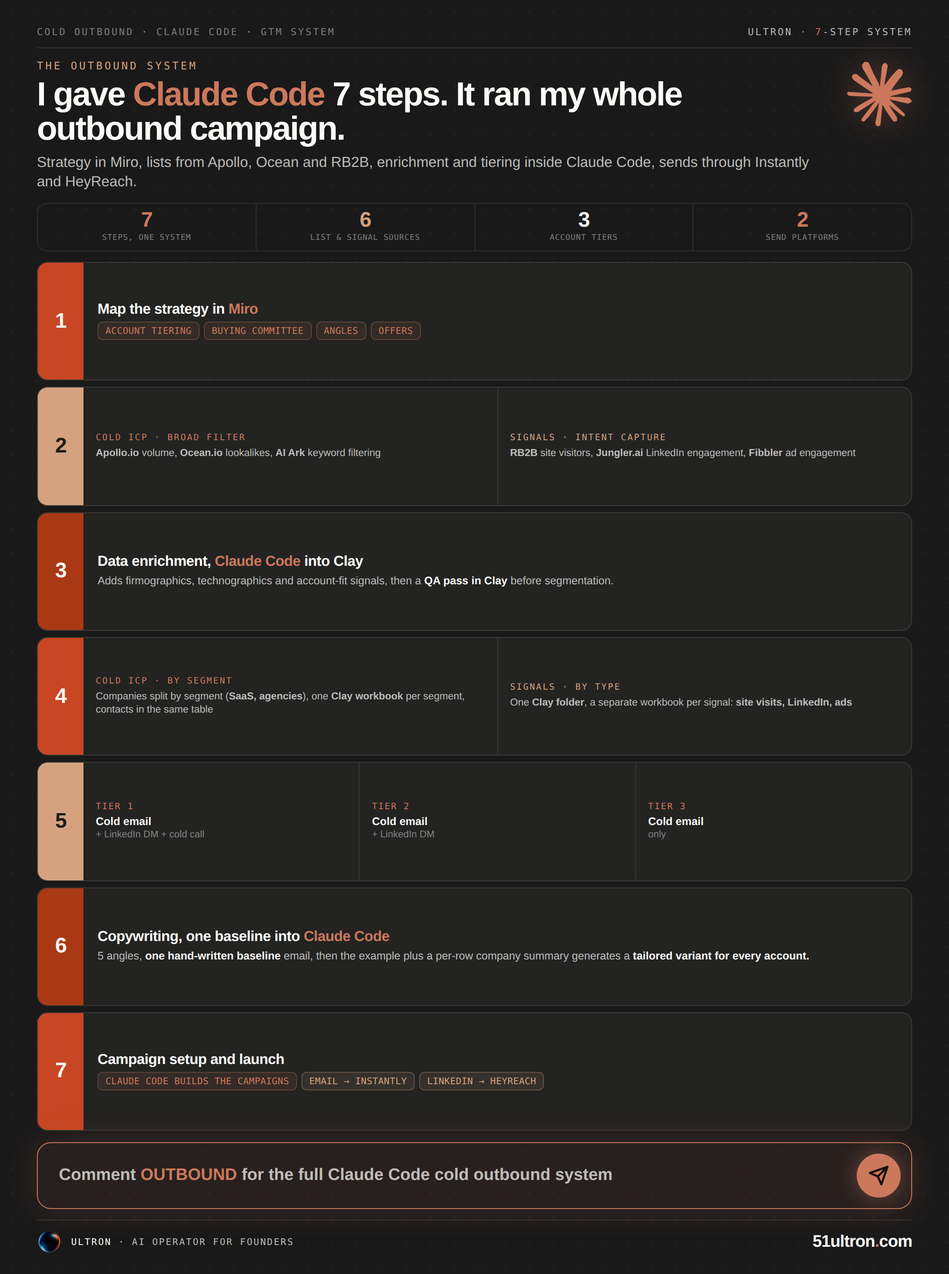
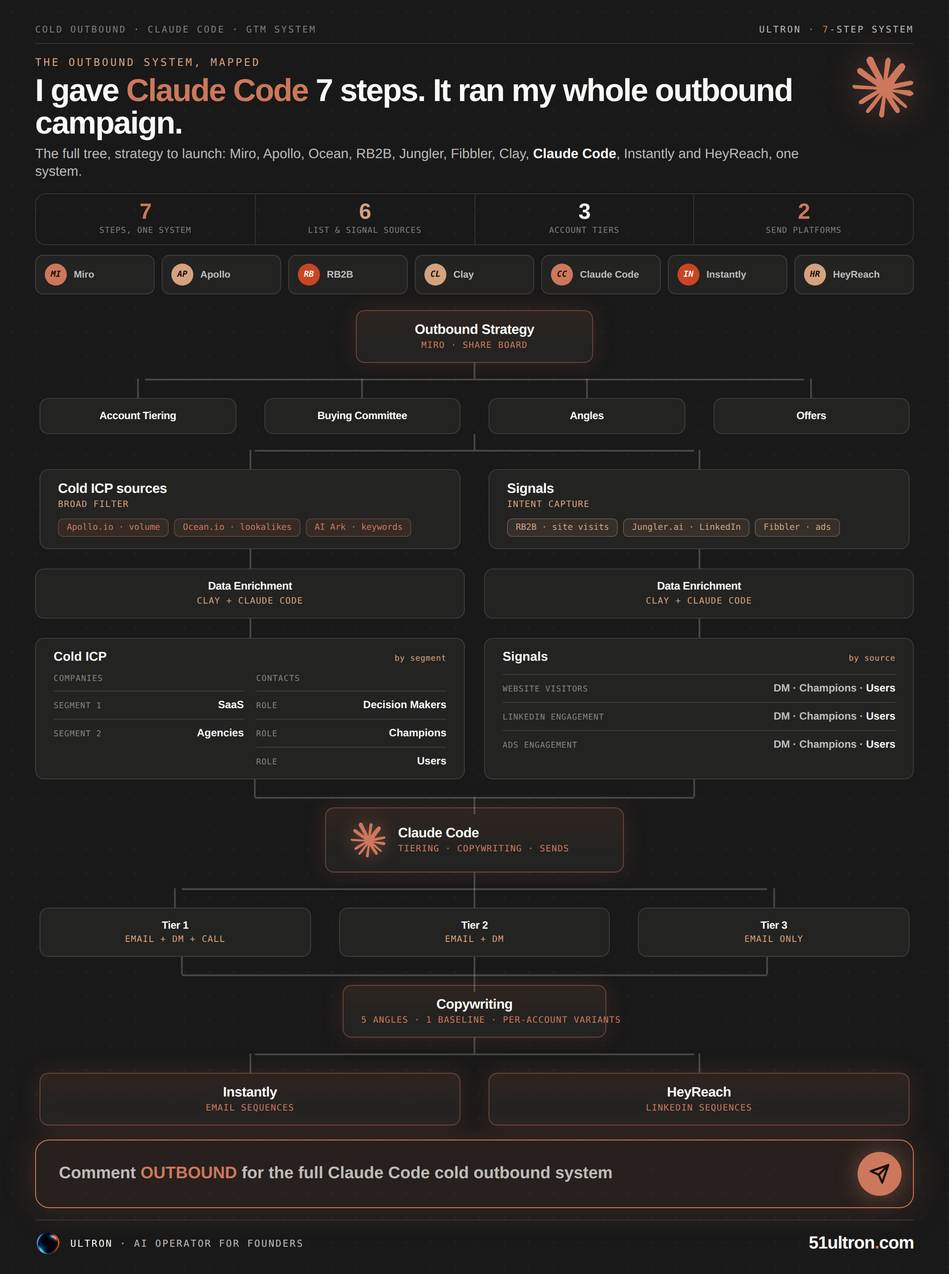
content: rebuild cold outbound infographic as an actual flowchart
Operator feedback: didn't like the numbered-card design, wanted the graphic
element rebuilt from the reference workflow diagram (adjusted to fit).
Replaced the stacked-stage pipeline with a real org-chart tree: pure-CSS
connector lines (branch bars + stub lines) route Outbound Strategy (Miro) ->
4 planning nodes -> splits into Cold ICP sources / Signals tracks -> parallel
enrichment -> dense segmentation panels -> converges into a Claude Code hub
-> tiers -> copywriting -> splits into Instantly / HeyReach launch nodes.
Re-scaled spacing/fonts and added back a stat strip + tool-badge row to fill
the canvas (first pass left a large dead band at the bottom). Dark Ultron,
1080x1450, preflight clean (exact height, no forbidden fonts/colors/dashes,
77px max dead band). ALT text updated to describe the tree instead of the
old pipeline layout.

diff --git a/content/coldoutbound-linkedin.html b/content/coldoutbound-linkedin.html
@@ -5,74 +5,96 @@
 <title>coldoutbound - LinkedIn 1080x1450</title>
 <style>
 @import 'https://fonts.googleapis.com/css2?family=DM+Sans:opsz,wght@9..40,400;9..40,500;9..40,600;9..40,700;9..40,800;9..40,900&family=DM+Mono:wght@400;500&display=swap';
-/* coldoutbound - The 7-step Claude Code cold outbound system (Miro -> Apollo/Ocean/AI Ark/RB2B/
-   Jungler/Fibbler -> Clay -> Instantly/HeyReach). Dominant = a 7-stage numbered pipeline, each
-   stage its own treatment (chip row / two-column split / tier badges) so no two rows read alike.
-   BUDGET: 1450 = pad(30+22) + mast(38) + hero(150) + stats(78) + pipe(1030, 7x~132+gaps) + cta(78)
-   + footer(44), gaps absorbed in margins. Dark Ultron. */
-:root{--slate:#191919;--slate2:#232322;--slate3:#1c1c1b;--ivory:#FAFAF7;
+/* coldoutbound v2 - rebuilt as an actual flowchart (operator: reference workflow diagram),
+   Dark Ultron. Vertical org-chart tree: Miro strategy -> 4 planning nodes -> splits into
+   Cold ICP / Signals sourcing -> enrichment -> dense segmentation panels -> converges into a
+   Claude Code hub -> tiering -> copywriting -> splits into Instantly / HeyReach launch.
+   Connector lines are pure CSS (::before bars + stub lines), no images. */
+:root{--slate:#191919;--slate2:#232322;--slate3:#1e1e1d;--ivory:#FAFAF7;
 --ink70:rgba(250,250,247,.72);--ink46:rgba(250,250,247,.46);--ink30:rgba(250,250,247,.30);
---ink14:rgba(250,250,247,.14);--rule:rgba(250,250,247,.10);
+--ink14:rgba(250,250,247,.14);--rule:rgba(250,250,247,.12);--line:rgba(250,250,247,.20);
 --book:#CC785C;--book-d:#C84623;--kraft:#D4A27F;--deep:#A93914;--cloud:#919180;}
 *{box-sizing:border-box;margin:0;padding:0;}
 body{background:#0d0d0d;display:flex;justify-content:center;padding:24px 0;font-family:'DM Sans',sans-serif;-webkit-font-smoothing:antialiased;}
-.frame{width:1080px;height:1450px;background:var(--slate);padding:30px 42px 22px;position:relative;overflow:hidden;color:var(--ivory);display:flex;flex-direction:column;}
-.frame::before{content:'';position:absolute;inset:0;pointer-events:none;z-index:0;background-image:radial-gradient(rgba(204,120,92,.055) 1.3px,transparent 1.4px);background-size:28px 28px;}
-.atm{position:absolute;inset:0;pointer-events:none;z-index:1;background:radial-gradient(ellipse 56% 20% at 92% -2%,rgba(204,120,92,.18) 0%,transparent 60%),radial-gradient(ellipse 44% 26% at 4% 100%,rgba(212,162,127,.09) 0%,transparent 60%);}
+.frame{width:1080px;height:1450px;background:var(--slate);padding:28px 40px 20px;position:relative;overflow:hidden;color:var(--ivory);display:flex;flex-direction:column;}
+.frame::before{content:'';position:absolute;inset:0;pointer-events:none;z-index:0;background-image:radial-gradient(rgba(204,120,92,.05) 1.3px,transparent 1.4px);background-size:28px 28px;}
+.atm{position:absolute;inset:0;pointer-events:none;z-index:1;background:radial-gradient(ellipse 56% 18% at 92% -2%,rgba(204,120,92,.16) 0%,transparent 60%),radial-gradient(ellipse 44% 22% at 4% 100%,rgba(212,162,127,.08) 0%,transparent 60%);}
 .frame>*{position:relative;z-index:2;}
-.mast{flex-shrink:0;display:flex;align-items:center;justify-content:space-between;padding-bottom:11px;border-bottom:1px solid var(--rule);font-family:'DM Mono',monospace;font-size:11px;font-weight:500;letter-spacing:.17em;text-transform:uppercase;}
+.mast{flex-shrink:0;display:flex;align-items:center;justify-content:space-between;padding-bottom:9px;border-bottom:1px solid var(--rule);font-family:'DM Mono',monospace;font-size:10.5px;font-weight:500;letter-spacing:.16em;text-transform:uppercase;}
 .mast .ml{color:var(--ink46);}.mast .ml em{color:var(--book);font-style:normal;}
 .mast .mr{color:var(--ink70);}.mast .mr em{color:var(--book);font-style:normal;}
-.hero{flex-shrink:0;margin-top:13px;position:relative;padding-right:96px;}
-.eye{font-family:'DM Mono',monospace;font-size:12px;font-weight:500;letter-spacing:.2em;text-transform:uppercase;color:var(--kraft);}
-.hook{margin-top:7px;font-weight:900;font-size:38px;line-height:1.03;letter-spacing:-1.3px;}
+.hero{flex-shrink:0;margin-top:14px;position:relative;padding-right:92px;}
+.eye{font-family:'DM Mono',monospace;font-size:12px;font-weight:500;letter-spacing:.19em;text-transform:uppercase;color:var(--kraft);}
+.hook{margin-top:6px;font-weight:900;font-size:36px;line-height:1.04;letter-spacing:-1.2px;}
 .hook em{color:var(--book);font-style:normal;}
-.sub{margin-top:8px;font-size:16.5px;font-weight:500;line-height:1.32;color:var(--ink70);max-width:960px;}
+.sub{margin-top:7px;font-size:15.5px;font-weight:500;line-height:1.3;color:var(--ink70);max-width:940px;}
 .sub b{color:var(--ivory);font-weight:700;}
-.hero-claude{position:absolute;top:2px;right:0;width:74px;height:74px;filter:drop-shadow(0 0 20px rgba(204,120,92,.4));}
-.stats{flex-shrink:0;margin-top:12px;display:flex;border:1px solid var(--rule);border-radius:12px;overflow:hidden;}
-.stat{flex:1;padding:9px 10px;text-align:center;}.stat+.stat{border-left:1px solid var(--rule);}
-.stat b{display:block;font-weight:900;font-size:24px;line-height:.85;letter-spacing:-.8px;}
+.hero-claude{position:absolute;top:0;right:0;width:70px;height:70px;filter:drop-shadow(0 0 20px rgba(204,120,92,.4));}
+/* stats */
+.stats{flex-shrink:0;margin-top:14px;display:flex;border:1px solid var(--rule);border-radius:12px;overflow:hidden;}
+.stat{flex:1;padding:10px 10px;text-align:center;}.stat+.stat{border-left:1px solid var(--rule);}
+.stat b{display:block;font-weight:900;font-size:25px;line-height:.85;letter-spacing:-.8px;}
 .stat.a b{color:var(--book);}.stat.b b{color:var(--kraft);}.stat.c b{color:var(--ivory);}.stat.d b{color:var(--book);}
-.stat span{font-family:'DM Mono',monospace;font-size:9px;font-weight:500;letter-spacing:.06em;text-transform:uppercase;color:var(--ink46);margin-top:5px;display:block;}
-/* pipeline (dominant) */
-.pipe{flex:1;min-height:0;margin-top:12px;display:flex;flex-direction:column;gap:7px;}
-.stage{position:relative;flex:1;min-height:0;display:flex;align-items:stretch;gap:0;border:1px solid var(--rule);border-radius:12px;background:var(--slate2);overflow:hidden;}
-.snum{align-self:stretch;width:52px;flex-shrink:0;display:flex;align-items:center;justify-content:center;font-weight:900;font-size:24px;letter-spacing:-.8px;color:var(--ivory);background:var(--book-d);}
-.stage.k .snum{background:var(--kraft);color:#221a12;}.stage.d .snum{background:var(--deep);color:var(--ivory);}
-.sbody{flex:1;min-width:0;display:flex;flex-direction:column;justify-content:center;gap:5px;padding:9px 16px;}
-.st{font-size:16.5px;font-weight:800;color:var(--ivory);letter-spacing:-.3px;line-height:1.05;}
-.st em{color:var(--book);font-style:normal;}
-.sv{font-size:12.5px;font-weight:500;color:var(--ink70);line-height:1.28;}
-.sv b{color:var(--ivory);font-weight:700;}
-/* chip rows */
-.chiprow{display:flex;flex-wrap:wrap;gap:5px;}
-.chip{font-family:'DM Mono',monospace;font-size:10.5px;font-weight:500;letter-spacing:.02em;color:var(--book);background:rgba(204,120,92,.10);border:1px solid rgba(204,120,92,.30);border-radius:6px;padding:3.5px 8px;white-space:nowrap;}
-.chip.k{color:var(--kraft);background:rgba(212,162,127,.10);border-color:rgba(212,162,127,.30);}
-.chip.i{color:var(--ink70);background:rgba(250,250,247,.05);border-color:var(--rule);}
-/* two-column split stages */
-.split2{flex:1;min-width:0;display:flex;gap:0;}
-.spcol{flex:1;min-width:0;padding:9px 14px;display:flex;flex-direction:column;justify-content:center;gap:5px;}
-.spcol+.spcol{border-left:1px solid var(--rule);}
-.spl{font-family:'DM Mono',monospace;font-size:10px;font-weight:500;letter-spacing:.14em;text-transform:uppercase;color:var(--kraft);}
-.spl.b{color:var(--book);}
-.spt{font-size:11.5px;font-weight:500;color:var(--ink70);line-height:1.25;}
-/* tier badges (stage 5) */
-.tiers{flex:1;min-width:0;display:flex;gap:0;}
-.tier{flex:1;padding:9px 14px;display:flex;flex-direction:column;justify-content:center;gap:4px;}
-.tier+.tier{border-left:1px solid var(--rule);}
-.tn{font-family:'DM Mono',monospace;font-size:10px;font-weight:500;letter-spacing:.12em;text-transform:uppercase;color:var(--book);}
-.tt{font-size:12.5px;font-weight:700;color:var(--ivory);line-height:1.2;}
-.tt span{display:block;font-size:11px;font-weight:500;color:var(--ink46);margin-top:1px;}
+.stat span{font-family:'DM Mono',monospace;font-size:9.3px;font-weight:500;letter-spacing:.06em;text-transform:uppercase;color:var(--ink46);margin-top:5px;display:block;}
+/* tool strip */
+.tools{flex-shrink:0;margin-top:11px;display:flex;gap:8px;}
+.tico{flex:1;display:flex;align-items:center;gap:8px;background:var(--slate2);border:1px solid var(--rule);border-radius:9px;padding:9px 10px;}
+.tico i{flex-shrink:0;width:25px;height:25px;border-radius:50%;display:flex;align-items:center;justify-content:center;font-family:'DM Mono',monospace;font-size:9.5px;font-weight:700;color:#1a0f0a;}
+.tico span{font-size:11px;font-weight:600;color:var(--ink70);white-space:nowrap;overflow:hidden;text-overflow:ellipsis;}
+/* ===== flowchart ===== */
+.flow{flex:1;min-height:0;margin-top:18px;display:flex;flex-direction:column;}
+.single{display:flex;justify-content:center;}
+.node{border:1px solid var(--rule);border-radius:10px;background:var(--slate2);padding:13px 20px;text-align:center;}
+.node.hl{border-color:rgba(204,120,92,.4);background:linear-gradient(180deg,rgba(204,120,92,.12),var(--slate2) 70%);box-shadow:0 0 26px rgba(204,120,92,.16);}
+.node.hub{display:flex;align-items:center;gap:14px;padding:16px 28px;}
+.node.hub svg{width:40px;height:40px;flex-shrink:0;filter:drop-shadow(0 0 10px rgba(204,120,92,.5));}
+.node.hub .hubt{text-align:left;}
+.nt{font-size:15.5px;font-weight:800;color:var(--ivory);letter-spacing:-.25px;line-height:1.1;white-space:nowrap;}
+.ns{font-family:'DM Mono',monospace;font-size:10px;font-weight:500;letter-spacing:.07em;text-transform:uppercase;color:var(--kraft);margin-top:4px;white-space:nowrap;}
+.node.hl .ns{color:var(--book);}
+.chiprow2{display:flex;flex-wrap:wrap;gap:6px;margin-top:10px;justify-content:center;}
+.tag{font-family:'DM Mono',monospace;font-size:9.8px;font-weight:500;color:var(--book);background:rgba(204,120,92,.10);border:1px solid rgba(204,120,92,.28);border-radius:6px;padding:4px 9px;white-space:nowrap;}
+.tag.k{color:var(--kraft);background:rgba(212,162,127,.10);border-color:rgba(212,162,127,.28);}
+.tag.i{color:var(--ink70);background:rgba(250,250,247,.05);border-color:var(--rule);}
+/* connectors */
+.stub{width:2px;height:22px;background:var(--line);margin:0 auto;}
+.bw{position:relative;padding-top:22px;}
+.bw::before{content:'';position:absolute;top:0;left:var(--half);right:var(--half);height:2px;background:var(--line);}
+.bw .row{display:flex;}
+.bw .row.g{gap:22px;}
+.bw .slot{flex:1;position:relative;padding:0 5px;}
+.bw .slot::before{content:'';position:absolute;top:-22px;left:50%;width:2px;height:22px;background:var(--line);transform:translateX(-50%);}
+.stubrow{display:flex;gap:22px;height:22px;}
+.stubrow .s{flex:1;display:flex;justify-content:center;}
+.stubrow .s i{width:2px;height:22px;background:var(--line);}
+.row2{display:flex;gap:22px;}
+.row2>.node{flex:1;}
+.conv{position:relative;height:40px;}
+.conv i.top{position:absolute;top:0;width:2px;height:20px;background:var(--line);transform:translateX(-50%);}
+.conv::before{content:'';position:absolute;top:20px;left:var(--half);right:var(--half);height:2px;background:var(--line);}
+.conv i.bottom{position:absolute;top:20px;left:50%;width:2px;height:20px;background:var(--line);transform:translateX(-50%);}
+/* dense panel (segmentation) */
+.panel{flex:1;text-align:left;}
+.panel .ph{display:flex;align-items:baseline;justify-content:space-between;margin-bottom:11px;}
+.panel .pt{font-size:14.5px;font-weight:800;color:var(--ivory);}
+.panel .pk{font-family:'DM Mono',monospace;font-size:9.2px;color:var(--kraft);letter-spacing:.04em;}
+.subcols{display:flex;gap:14px;}
+.subcol{flex:1;min-width:0;}
+.subcol .sl{font-family:'DM Mono',monospace;font-size:9.2px;font-weight:500;letter-spacing:.08em;text-transform:uppercase;color:var(--ink46);margin-bottom:8px;}
+.subrows{display:flex;flex-direction:column;gap:9px;}
+.subr{display:flex;align-items:baseline;justify-content:space-between;gap:10px;border-top:1px solid var(--rule);padding-top:8px;}
+.subr .sn{font-family:'DM Mono',monospace;font-size:9.2px;font-weight:500;letter-spacing:.06em;text-transform:uppercase;color:var(--ink46);white-space:nowrap;}
+.subr .sv{font-size:12px;font-weight:600;color:var(--ink70);text-align:right;}
+.subr .sv b{color:var(--ivory);}
 /* cta */
-.cta{flex-shrink:0;margin-top:13px;display:flex;align-items:center;gap:16px;border:1.5px solid var(--book);border-radius:16px;background:rgba(204,120,92,.08);padding:12px 12px 12px 24px;box-shadow:0 0 40px rgba(204,120,92,.2);}
-.cta .ph{flex:1;font-size:19px;font-weight:600;color:var(--ink70);line-height:1.2;}.cta .ph b{color:var(--book);font-weight:900;}
+.cta{flex-shrink:0;margin-top:16px;display:flex;align-items:center;gap:16px;border:1.5px solid var(--book);border-radius:16px;background:rgba(204,120,92,.08);padding:13px 13px 13px 26px;box-shadow:0 0 40px rgba(204,120,92,.2);}
+.cta .ph2{flex:1;font-size:19px;font-weight:600;color:var(--ink70);line-height:1.2;}.cta .ph2 b{color:var(--book);font-weight:900;}
 .cta .send{width:50px;height:50px;border-radius:50%;background:var(--book);flex-shrink:0;display:flex;align-items:center;justify-content:center;box-shadow:0 0 26px rgba(204,120,92,.45);}
 .cta .send svg{width:24px;height:24px;stroke:#1a0f0a;stroke-width:2.4;fill:none;stroke-linecap:round;stroke-linejoin:round;}
-.ftr{flex-shrink:0;margin-top:12px;padding-top:11px;border-top:1px solid var(--rule);display:flex;align-items:center;justify-content:space-between;gap:16px;}
-.fl2{display:flex;align-items:center;gap:11px;min-width:0;}.flogo{width:28px;height:28px;border-radius:50%;object-fit:cover;flex-shrink:0;}
-.ftx{font-family:'DM Mono',monospace;font-size:10.5px;font-weight:400;letter-spacing:.13em;text-transform:uppercase;color:var(--ink70);white-space:nowrap;}.ftx b{color:var(--ivory);font-weight:500;}
-.furl{font-weight:900;font-size:19px;letter-spacing:-.5px;color:var(--ivory);}.furl em{color:var(--book);font-style:normal;}
+.ftr{flex-shrink:0;margin-top:13px;padding-top:12px;border-top:1px solid var(--rule);display:flex;align-items:center;justify-content:space-between;gap:16px;}
+.fl2{display:flex;align-items:center;gap:11px;min-width:0;}.flogo{width:29px;height:29px;border-radius:50%;object-fit:cover;flex-shrink:0;}
+.ftx{font-family:'DM Mono',monospace;font-size:11px;font-weight:400;letter-spacing:.13em;text-transform:uppercase;color:var(--ink70);white-space:nowrap;}.ftx b{color:var(--ivory);font-weight:500;}
+.furl{font-weight:900;font-size:20px;letter-spacing:-.5px;color:var(--ivory);}.furl em{color:var(--book);font-style:normal;}
 </style>
 </head>
 <body>
@@ -83,9 +105,9 @@ body{background:#0d0d0d;display:flex;justify-content:center;padding:24px 0;font-
   <div class="mast"><span class="ml">COLD OUTBOUND <em>&middot;</em> CLAUDE CODE <em>&middot;</em> GTM SYSTEM</span><span class="mr">ULTRON <em>&middot;</em> <em>7</em>-STEP SYSTEM</span></div>
   <div class="hero">
     <svg class="hero-claude" viewBox="0 0 1200 1200"><use href="#claude-logo"/></svg>
-    <div class="eye">The outbound system</div>
+    <div class="eye">The outbound system, mapped</div>
     <div class="hook">I gave <em>Claude Code</em> 7 steps. It ran my whole outbound campaign.</div>
-    <div class="sub">Strategy in Miro, lists from Apollo, Ocean and RB2B, enrichment and tiering inside Claude Code, sends through Instantly and HeyReach.</div>
+    <div class="sub">The full tree, strategy to launch: Miro, Apollo, Ocean, RB2B, Jungler, Fibbler, Clay, <b>Claude Code</b>, Instantly and HeyReach, one system.</div>
   </div>
   <div class="stats">
     <div class="stat a"><b>7</b><span>steps, one system</span></div>
@@ -93,67 +115,103 @@ body{background:#0d0d0d;display:flex;justify-content:center;padding:24px 0;font-
     <div class="stat c"><b>3</b><span>account tiers</span></div>
     <div class="stat d"><b>2</b><span>send platforms</span></div>
   </div>
+  <div class="tools">
+    <div class="tico"><i style="background:var(--book)">MI</i><span>Miro</span></div>
+    <div class="tico"><i style="background:var(--kraft)">AP</i><span>Apollo</span></div>
+    <div class="tico"><i style="background:var(--book-d);color:#FAFAF7">RB</i><span>RB2B</span></div>
+    <div class="tico"><i style="background:var(--kraft)">CL</i><span>Clay</span></div>
+    <div class="tico"><i style="background:var(--book)">CC</i><span>Claude Code</span></div>
+    <div class="tico"><i style="background:var(--book-d);color:#FAFAF7">IN</i><span>Instantly</span></div>
+    <div class="tico"><i style="background:var(--kraft)">HR</i><span>HeyReach</span></div>
+  </div>
 
-  <div class="pipe">
-    <div class="stage">
-      <div class="snum">1</div>
-      <div class="sbody">
-        <div class="st">Map the strategy in <em>Miro</em></div>
-        <div class="chiprow"><span class="chip">ACCOUNT TIERING</span><span class="chip">BUYING COMMITTEE</span><span class="chip">ANGLES</span><span class="chip">OFFERS</span></div>
+  <div class="flow">
+    <div class="single"><div class="node hl" style="width:270px"><div class="nt">Outbound Strategy</div><div class="ns">Miro &middot; share board</div></div></div>
+    <div class="stub"></div>
+
+    <div class="bw" style="--half:12.5%">
+      <div class="row g">
+        <div class="slot"><div class="node"><div class="nt" style="font-size:12px">Account Tiering</div></div></div>
+        <div class="slot"><div class="node"><div class="nt" style="font-size:12px">Buying Committee</div></div></div>
+        <div class="slot"><div class="node"><div class="nt" style="font-size:12px">Angles</div></div></div>
+        <div class="slot"><div class="node"><div class="nt" style="font-size:12px">Offers</div></div></div>
+      </div>
+    </div>
+    <div class="stub"></div>
+
+    <div class="bw" style="--half:25%">
+      <div class="row g">
+        <div class="slot"><div class="node" style="text-align:left">
+          <div class="nt">Cold ICP sources</div><div class="ns">broad filter</div>
+          <div class="chiprow2" style="justify-content:flex-start"><span class="tag">Apollo.io &middot; volume</span><span class="tag">Ocean.io &middot; lookalikes</span><span class="tag">AI Ark &middot; keywords</span></div>
+        </div></div>
+        <div class="slot"><div class="node" style="text-align:left">
+          <div class="nt">Signals</div><div class="ns">intent capture</div>
+          <div class="chiprow2" style="justify-content:flex-start"><span class="tag k">RB2B &middot; site visits</span><span class="tag k">Jungler.ai &middot; LinkedIn</span><span class="tag k">Fibbler &middot; ads</span></div>
+        </div></div>
       </div>
     </div>
 
-    <div class="stage k">
-      <div class="snum">2</div>
-      <div class="split2">
-        <div class="spcol"><div class="spl b">Cold ICP &middot; broad filter</div><div class="spt"><b>Apollo.io</b> volume, <b>Ocean.io</b> lookalikes, <b>AI Ark</b> keyword filtering</div></div>
-        <div class="spcol"><div class="spl">Signals &middot; intent capture</div><div class="spt"><b>RB2B</b> site visitors, <b>Jungler.ai</b> LinkedIn engagement, <b>Fibbler</b> ad engagement</div></div>
+    <div class="stubrow"><div class="s"><i></i></div><div class="s"><i></i></div></div>
+    <div class="row2">
+      <div class="node"><div class="nt" style="font-size:12.5px">Data Enrichment</div><div class="ns">Clay + Claude Code</div></div>
+      <div class="node"><div class="nt" style="font-size:12.5px">Data Enrichment</div><div class="ns">Clay + Claude Code</div></div>
+    </div>
+
+    <div class="stubrow"><div class="s"><i></i></div><div class="s"><i></i></div></div>
+    <div class="row2" style="align-items:stretch">
+      <div class="node panel">
+        <div class="ph"><span class="pt">Cold ICP</span><span class="pk">by segment</span></div>
+        <div class="subcols">
+          <div class="subcol"><div class="sl">Companies</div><div class="subrows">
+            <div class="subr"><span class="sn">Segment 1</span><span class="sv"><b>SaaS</b></span></div>
+            <div class="subr"><span class="sn">Segment 2</span><span class="sv"><b>Agencies</b></span></div>
+          </div></div>
+          <div class="subcol"><div class="sl">Contacts</div><div class="subrows">
+            <div class="subr"><span class="sn">Role</span><span class="sv"><b>Decision Makers</b></span></div>
+            <div class="subr"><span class="sn">Role</span><span class="sv"><b>Champions</b></span></div>
+            <div class="subr"><span class="sn">Role</span><span class="sv"><b>Users</b></span></div>
+          </div></div>
+        </div>
+      </div>
+      <div class="node panel">
+        <div class="ph"><span class="pt">Signals</span><span class="pk">by source</span></div>
+        <div class="subrows">
+          <div class="subr"><span class="sn">Website Visitors</span><span class="sv">DM &middot; Champions &middot; <b>Users</b></span></div>
+          <div class="subr"><span class="sn">LinkedIn Engagement</span><span class="sv">DM &middot; Champions &middot; <b>Users</b></span></div>
+          <div class="subr"><span class="sn">Ads Engagement</span><span class="sv">DM &middot; Champions &middot; <b>Users</b></span></div>
+        </div>
       </div>
     </div>
 
-    <div class="stage d">
-      <div class="snum">3</div>
-      <div class="sbody">
-        <div class="st">Data enrichment, <em>Claude Code</em> into Clay</div>
-        <div class="sv">Adds firmographics, technographics and account-fit signals, then a <b>QA pass in Clay</b> before segmentation.</div>
+    <div class="conv" style="--half:25%"><i class="top" style="left:25%"></i><i class="top" style="left:75%"></i><i class="bottom"></i></div>
+    <div class="single"><div class="node hl hub" style="width:340px">
+      <svg viewBox="0 0 1200 1200"><use href="#claude-logo"/></svg>
+      <div class="hubt"><div class="nt">Claude Code</div><div class="ns">tiering &middot; copywriting &middot; sends</div></div>
+    </div></div>
+    <div class="stub"></div>
+
+    <div class="bw" style="--half:16.667%">
+      <div class="row g">
+        <div class="slot"><div class="node"><div class="nt" style="font-size:12px">Tier 1</div><div class="ns">email + DM + call</div></div></div>
+        <div class="slot"><div class="node"><div class="nt" style="font-size:12px">Tier 2</div><div class="ns">email + DM</div></div></div>
+        <div class="slot"><div class="node"><div class="nt" style="font-size:12px">Tier 3</div><div class="ns">email only</div></div></div>
       </div>
     </div>
+    <div class="conv" style="--half:16.667%"><i class="top" style="left:16.667%"></i><i class="top" style="left:50%"></i><i class="top" style="left:83.333%"></i><i class="bottom"></i></div>
 
-    <div class="stage">
-      <div class="snum">4</div>
-      <div class="split2">
-        <div class="spcol"><div class="spl b">Cold ICP &middot; by segment</div><div class="spt">Companies split by segment (<b>SaaS, agencies</b>), one <b>Clay workbook</b> per segment, contacts in the same table</div></div>
-        <div class="spcol"><div class="spl">Signals &middot; by type</div><div class="spt">One <b>Clay folder</b>, a separate workbook per signal: <b>site visits, LinkedIn, ads</b></div></div>
-      </div>
-    </div>
+    <div class="single"><div class="node hl" style="width:300px"><div class="nt">Copywriting</div><div class="ns">5 angles &middot; 1 baseline &middot; per-account variants</div></div></div>
+    <div class="stub"></div>
 
-    <div class="stage k">
-      <div class="snum">5</div>
-      <div class="tiers">
-        <div class="tier"><div class="tn">Tier 1</div><div class="tt">Cold email<span>+ LinkedIn DM + cold call</span></div></div>
-        <div class="tier"><div class="tn">Tier 2</div><div class="tt">Cold email<span>+ LinkedIn DM</span></div></div>
-        <div class="tier"><div class="tn">Tier 3</div><div class="tt">Cold email<span>only</span></div></div>
-      </div>
-    </div>
-
-    <div class="stage d">
-      <div class="snum">6</div>
-      <div class="sbody">
-        <div class="st">Copywriting, one baseline into <em>Claude Code</em></div>
-        <div class="sv">5 angles, <b>one hand-written baseline</b> email, then the example plus a per-row company summary generates a <b>tailored variant for every account.</b></div>
-      </div>
-    </div>
-
-    <div class="stage">
-      <div class="snum">7</div>
-      <div class="sbody">
-        <div class="st">Campaign setup and launch</div>
-        <div class="chiprow"><span class="chip">CLAUDE CODE BUILDS THE CAMPAIGNS</span><span class="chip k">EMAIL &rarr; INSTANTLY</span><span class="chip k">LINKEDIN &rarr; HEYREACH</span></div>
+    <div class="bw" style="--half:25%">
+      <div class="row g">
+        <div class="slot"><div class="node hl"><div class="nt">Instantly</div><div class="ns">email sequences</div></div></div>
+        <div class="slot"><div class="node hl"><div class="nt">HeyReach</div><div class="ns">LinkedIn sequences</div></div></div>
       </div>
     </div>
   </div>
 
-  <div class="cta"><span class="ph">Comment <b>OUTBOUND</b> for the full Claude Code cold outbound system</span><span class="send"><svg viewBox="0 0 24 24"><path d="M22 2 11 13M22 2l-7 20-4-9-9-4z"/></svg></span></div>
+  <div class="cta"><span class="ph2">Comment <b>OUTBOUND</b> for the full Claude Code cold outbound system</span><span class="send"><svg viewBox="0 0 24 24"><path d="M22 2 11 13M22 2l-7 20-4-9-9-4z"/></svg></span></div>
   <div class="ftr"><div class="fl2"><img class="flogo" src="__LOGO_URI__" alt="Ultron"><span class="ftx"><b>ULTRON</b> &middot; AI OPERATOR FOR FOUNDERS</span></div><div class="furl">51ultron<em>.</em>com</div></div>
 </div>
 </body>

diff --git a/content/coldoutbound-linkedin-caption.md b/content/coldoutbound-linkedin-caption.md
@@ -16,7 +16,7 @@ Follow for one AI system for founders every day.
 Comment OUTBOUND and I will send you the exact Claude Code cold outbound system we used.
 
 ALT TEXT:
-Dark editorial infographic on slate background. The mast reads cold outbound, Claude Code, GTM system on the left and Ultron, 7-step system on the right. The hook reads 'I gave Claude Code 7 steps. It ran my whole outbound campaign,' with Claude Code in book-orange, next to the Claude sunburst mark. Below sits a stat strip: 7 steps, 6 sources, 3 tiers, 2 send platforms. The dominant block is a numbered pipeline of seven stages with book-orange, kraft and deep-orange badges: Miro strategy with four chips, a two-column list stage splitting cold ICP tools Apollo.io, Ocean.io and AI Ark from signal tools RB2B, Jungler.ai and Fibbler, a Claude Code into Clay enrichment stage, a two-column segmentation stage, a three-tier account stage, a copywriting stage naming 5 angles, and a launch stage pushing email into Instantly and LinkedIn into HeyReach. Closes with a Comment OUTBOUND call to action and the Ultron logo.
+Dark editorial flowchart on slate background. The hook reads 'I gave Claude Code 7 steps. It ran my whole outbound campaign,' next to the Claude sunburst mark, above a stat strip of 7 steps, 6 sources, 3 tiers, 2 send platforms and a row of tool badges for Miro, Apollo, RB2B, Clay, Claude Code, Instantly and HeyReach. Below runs an org-chart tree connected by thin book-orange lines: an Outbound Strategy node in Miro branches into four boxes, then splits into two tracks, Cold ICP sources (Apollo.io, Ocean.io, AI Ark) and Signals (RB2B, Jungler.ai, Fibbler), each running through a Data Enrichment box into a dense segmentation panel. Both tracks converge into a highlighted Claude Code hub, which branches into three tiers, converges into Copywriting, then splits into Instantly and HeyReach. Closes with a Comment OUTBOUND call to action and the Ultron logo.
 
 FIRST COMMENT:
 Seven steps, one Claude Code system, zero manual list building by the time it reaches Instantly and HeyReach.
